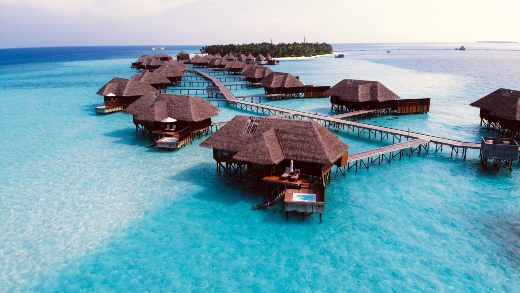
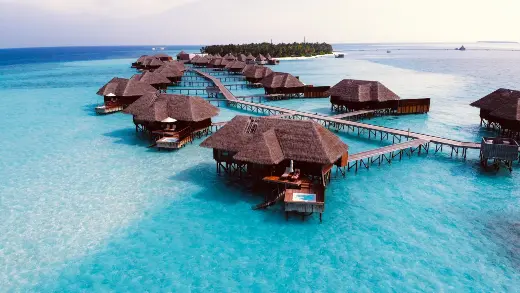
alter css

diff --git a/week03_assignment/styles/place.css b/week03_assignment/styles/place.css
@@ -1,9 +1,11 @@
 :root {  
-  --primary: #0088cc;
+  --primary: #0088cc; 
   --secondary: #00b4d8;
   --accent: #e8c978; 
+  --accentclear: #f4e9cb; 
   --ocean: #0077b6;
   --seafoam: #90e0ef;
+  --seafoamclear: #ccfafc;
   --sand: #fdf0d5;
   --palm: #2d6a4f;
   --white: #ffffff;
@@ -12,7 +14,7 @@
   --gray: #424344;
   --dark: #1b263b;
   --glass: rgba(255, 255, 255, 0.7);
-  --shadow: 0 4px 12px rgba(0,0,0,0.15);
+  --shadow: 0 4px 12px rgba(0,0,0,0.2);
 }
 
 *{
@@ -26,14 +28,18 @@ header{
     background-color: var(--primary);
     color: var(--white);
     padding: .7rem;
-    text-align: center;
-    font-size: .7rem;
+    text-align: center;  
     border-bottom: 15px solid var(--seafoam);
 }
 
+header h1{
+    font-size: clamp(0.7rem, 5vw, 1.5rem);
+}
+
 body{
-    font-family: 'Popins', sans-serif;
-    background-color: var(--sand);
+    font-family: 'Poppins', sans-serif;
+    background-color: var(--seafoamclear);
+    min-height: 100vh;
 }
 
 .container{
@@ -56,36 +62,44 @@ body{
     width: 90%;
     border-radius: 10px;    
     box-shadow: 0 0 10px var(--dark);
-    font-size: .8rem;
+    font-size: clamp(.6rem, 3vw, .9rem);
     text-align: center;
     line-height: 1.6;
+    backdrop-filter: blur(5px);
 }
 
 .card h2{    
     color: var(--gray);
     display: flex;
     justify-content: center;
-    font-size: 1rem;
-    background-color: var(--accent);
-    width: 85%;
+    font-size: clamp(1rem, 3vw, 1.1rem);
+    background-color: var(--accentclear);
+    width: 100%;
     margin-left: -20px;
     margin-top: -10px;
     margin-bottom: .5rem;
     padding: .6rem;
-    box-shadow: 0 4px 10px rgba(0,0,0,0.2);
+    box-shadow: var(--shadow);
     border-radius: 4px;
 
 }
 
 .weather-card h2{
     flex-direction: column;
-    justify-content: center    
+    justify-content: center;
 }
 
 .weather-icon{
-    font-size: 2rem;
+    width: 50px;
+    height: 50px;
+    display: block;
+    margin: auto;
 }
 
+.title::before{
+      content: "🌴"; 
+      margin-left: 10px;
+}
 
 .card p{   
     display: flex;
@@ -98,7 +112,7 @@ footer{
     color: var(--white);
     text-align: center;
     padding: .8rem;
-    font-size: .8rem;
+    font-size: clamp(.5rem, 3vw, .8rem);
 }
 
 @media (min-width: 768px){
@@ -120,9 +134,9 @@ footer{
       margin-top: -10px;
       margin-bottom: .5rem;
       padding: .6rem;
-      box-shadow: 0 4px 10px rgba(0,0,0,0.2);
+      box-shadow: var(--shadow);
       border-radius: 4px;
-      background-color: var(--accent);
+      background-color: var(--accentclear);
       width: 85%;
       color: var(--gray);
     }
@@ -134,8 +148,11 @@ footer{
     }
 
     .weather-icon{
-      font-size: 1.2rem;
-    }
+      
+      width: 40px;
+      height: 40px;
+      flex-shrink: 0;
+    }  
 
     .hero img{
         width: 100%;

diff --git a/week03_assignment/place.html b/week03_assignment/place.html
@@ -3,8 +3,8 @@
 <head>
     <meta charset="UTF-8">
     <meta name="viewport" content="width=device-width, initial-scale=1.0">
-    <title>Wdd 131 - Beaches Album</title>
-    <meta name="description" content="Temple Album activity.">
+    <title>Maldives Beach | Travel & Weather Guide</title>
+    <meta name="description" content="Explore the beauty of the Maldives with travel information, weather details, and stunning beach scenery.">
     <meta name="author" content="Paula Jessica Silva">
     <link rel="preconnect" href="https://fonts.googleapis.com">
     <link rel="preconnect" href="https://fonts.gstatic.com" crossorigin>
@@ -13,10 +13,8 @@
     
 </head>
 <body>
-    <header>
-        <div class="title">
-            <h1>Maldivas Beach</h1>            
-        </div>
+    <header>        
+            <h1>Maldivas Beach</h1> 
     </header>
     <main class="container">
 
@@ -28,7 +26,7 @@
             </picture>
         </section>
                 <section class="card data-card">
-            <h2>Data</h2>
+            <h2><span class="title">Data</span> </h2>
 
             <p><strong>Area:</strong> 298 km²</p>
             <p><strong>Population:</strong> 521,000</p>
@@ -37,8 +35,34 @@
             <p><strong>Currency:</strong> Rufiyaa</p>
         </section>     
         <section class="card weather-card">
-            <h2>Weather 
-                <span class="weather-icon">⛅</span>
+            <h2>
+                <span class="title">Weather</span>            
+                <svg
+                    xmlns="http://www.w3.org/2000/svg"
+                    width="80"
+                    height="80"
+                    viewBox="0 0 64 64"
+                    class="weather-icon"
+                >
+                    <!-- Sol -->
+                    <circle cx="24" cy="24" r="10" fill="#FDB813"/>
+
+                    <!-- Raios -->
+                    <line x1="24" y1="6" x2="24" y2="0" stroke="#FDB813" stroke-width="3"/>
+                    <line x1="24" y1="48" x2="24" y2="42" stroke="#FDB813" stroke-width="3"/>
+                    <line x1="6" y1="24" x2="0" y2="24" stroke="#FDB813" stroke-width="3"/>
+                    <line x1="48" y1="24" x2="42" y2="24" stroke="#FDB813" stroke-width="3"/>
+
+                    <line x1="11" y1="11" x2="6" y2="6" stroke="#FDB813" stroke-width="3"/>
+                    <line x1="37" y1="37" x2="42" y2="42" stroke="#FDB813" stroke-width="3"/>
+                    <line x1="11" y1="37" x2="6" y2="42" stroke="#FDB813" stroke-width="3"/>
+                    <line x1="37" y1="11" x2="42" y2="6" stroke="#FDB813" stroke-width="3"/>
+
+                    <!-- Nuvem -->
+                    <ellipse cx="38" cy="40" rx="16" ry="10" fill="#D6D6D6"/>
+                    <ellipse cx="28" cy="40" rx="10" ry="8" fill="#D6D6D6"/>
+                    <ellipse cx="46" cy="36" rx="10" ry="8" fill="#D6D6D6"/>
+                </svg>
             </h2>
 
             <p>Temperature: <span id="temperature"></span>°C</p>